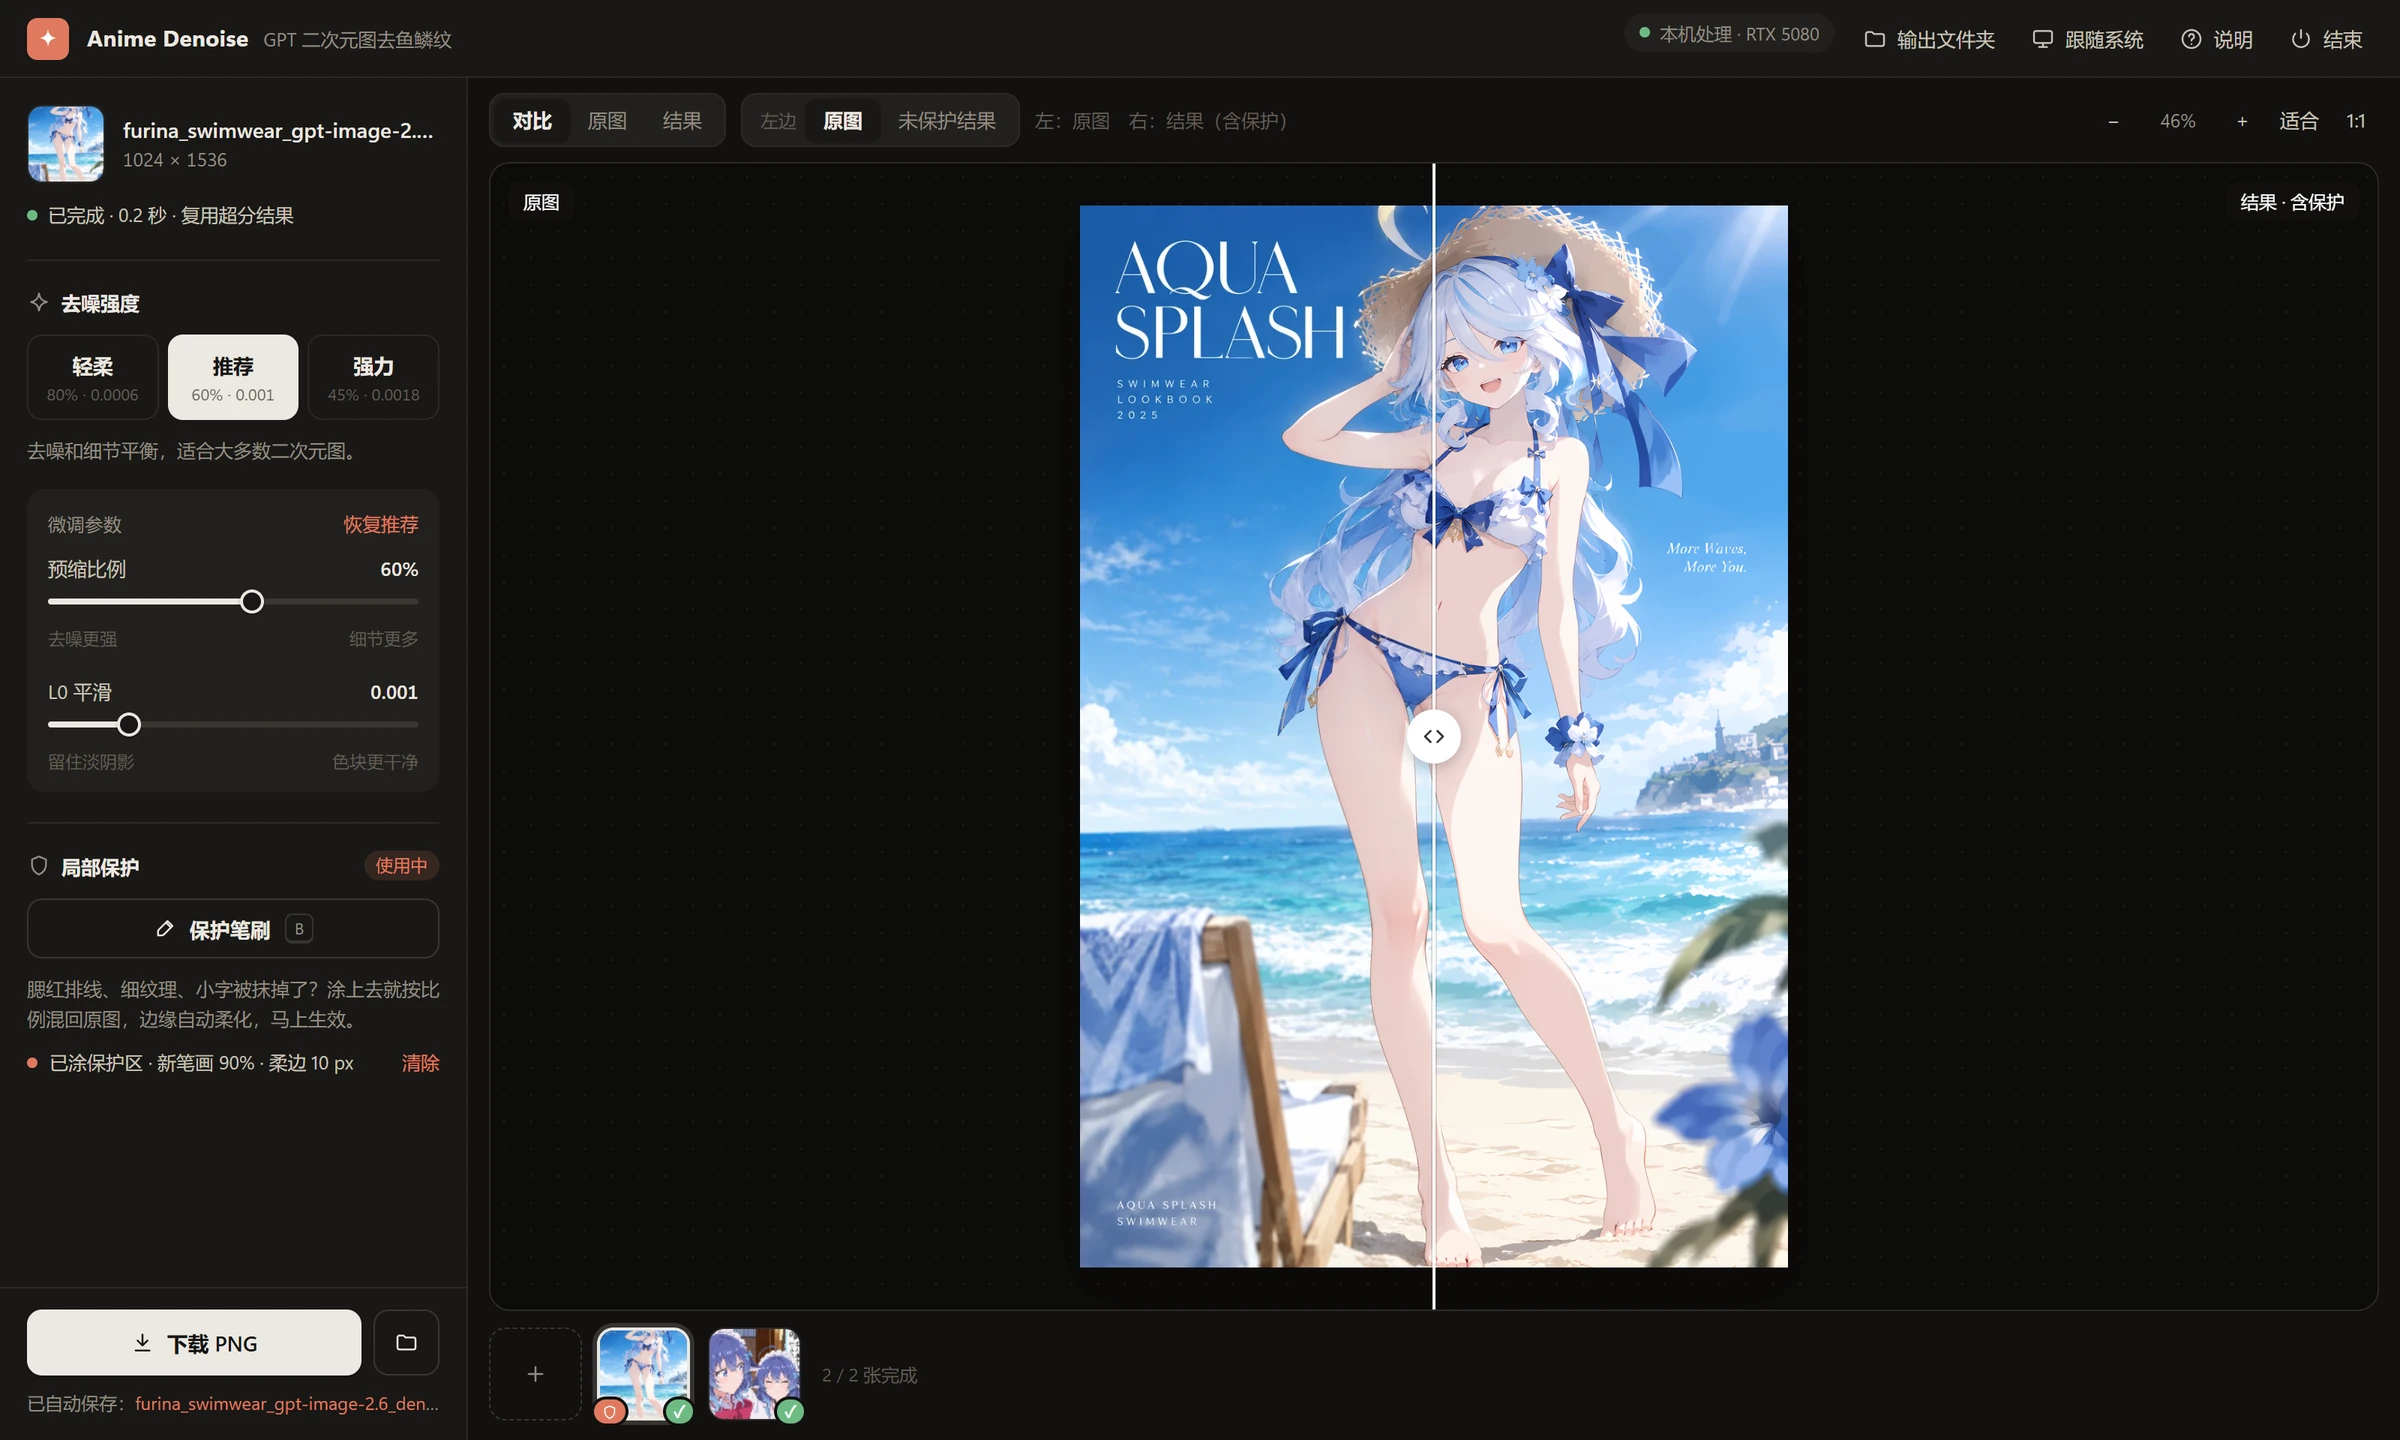
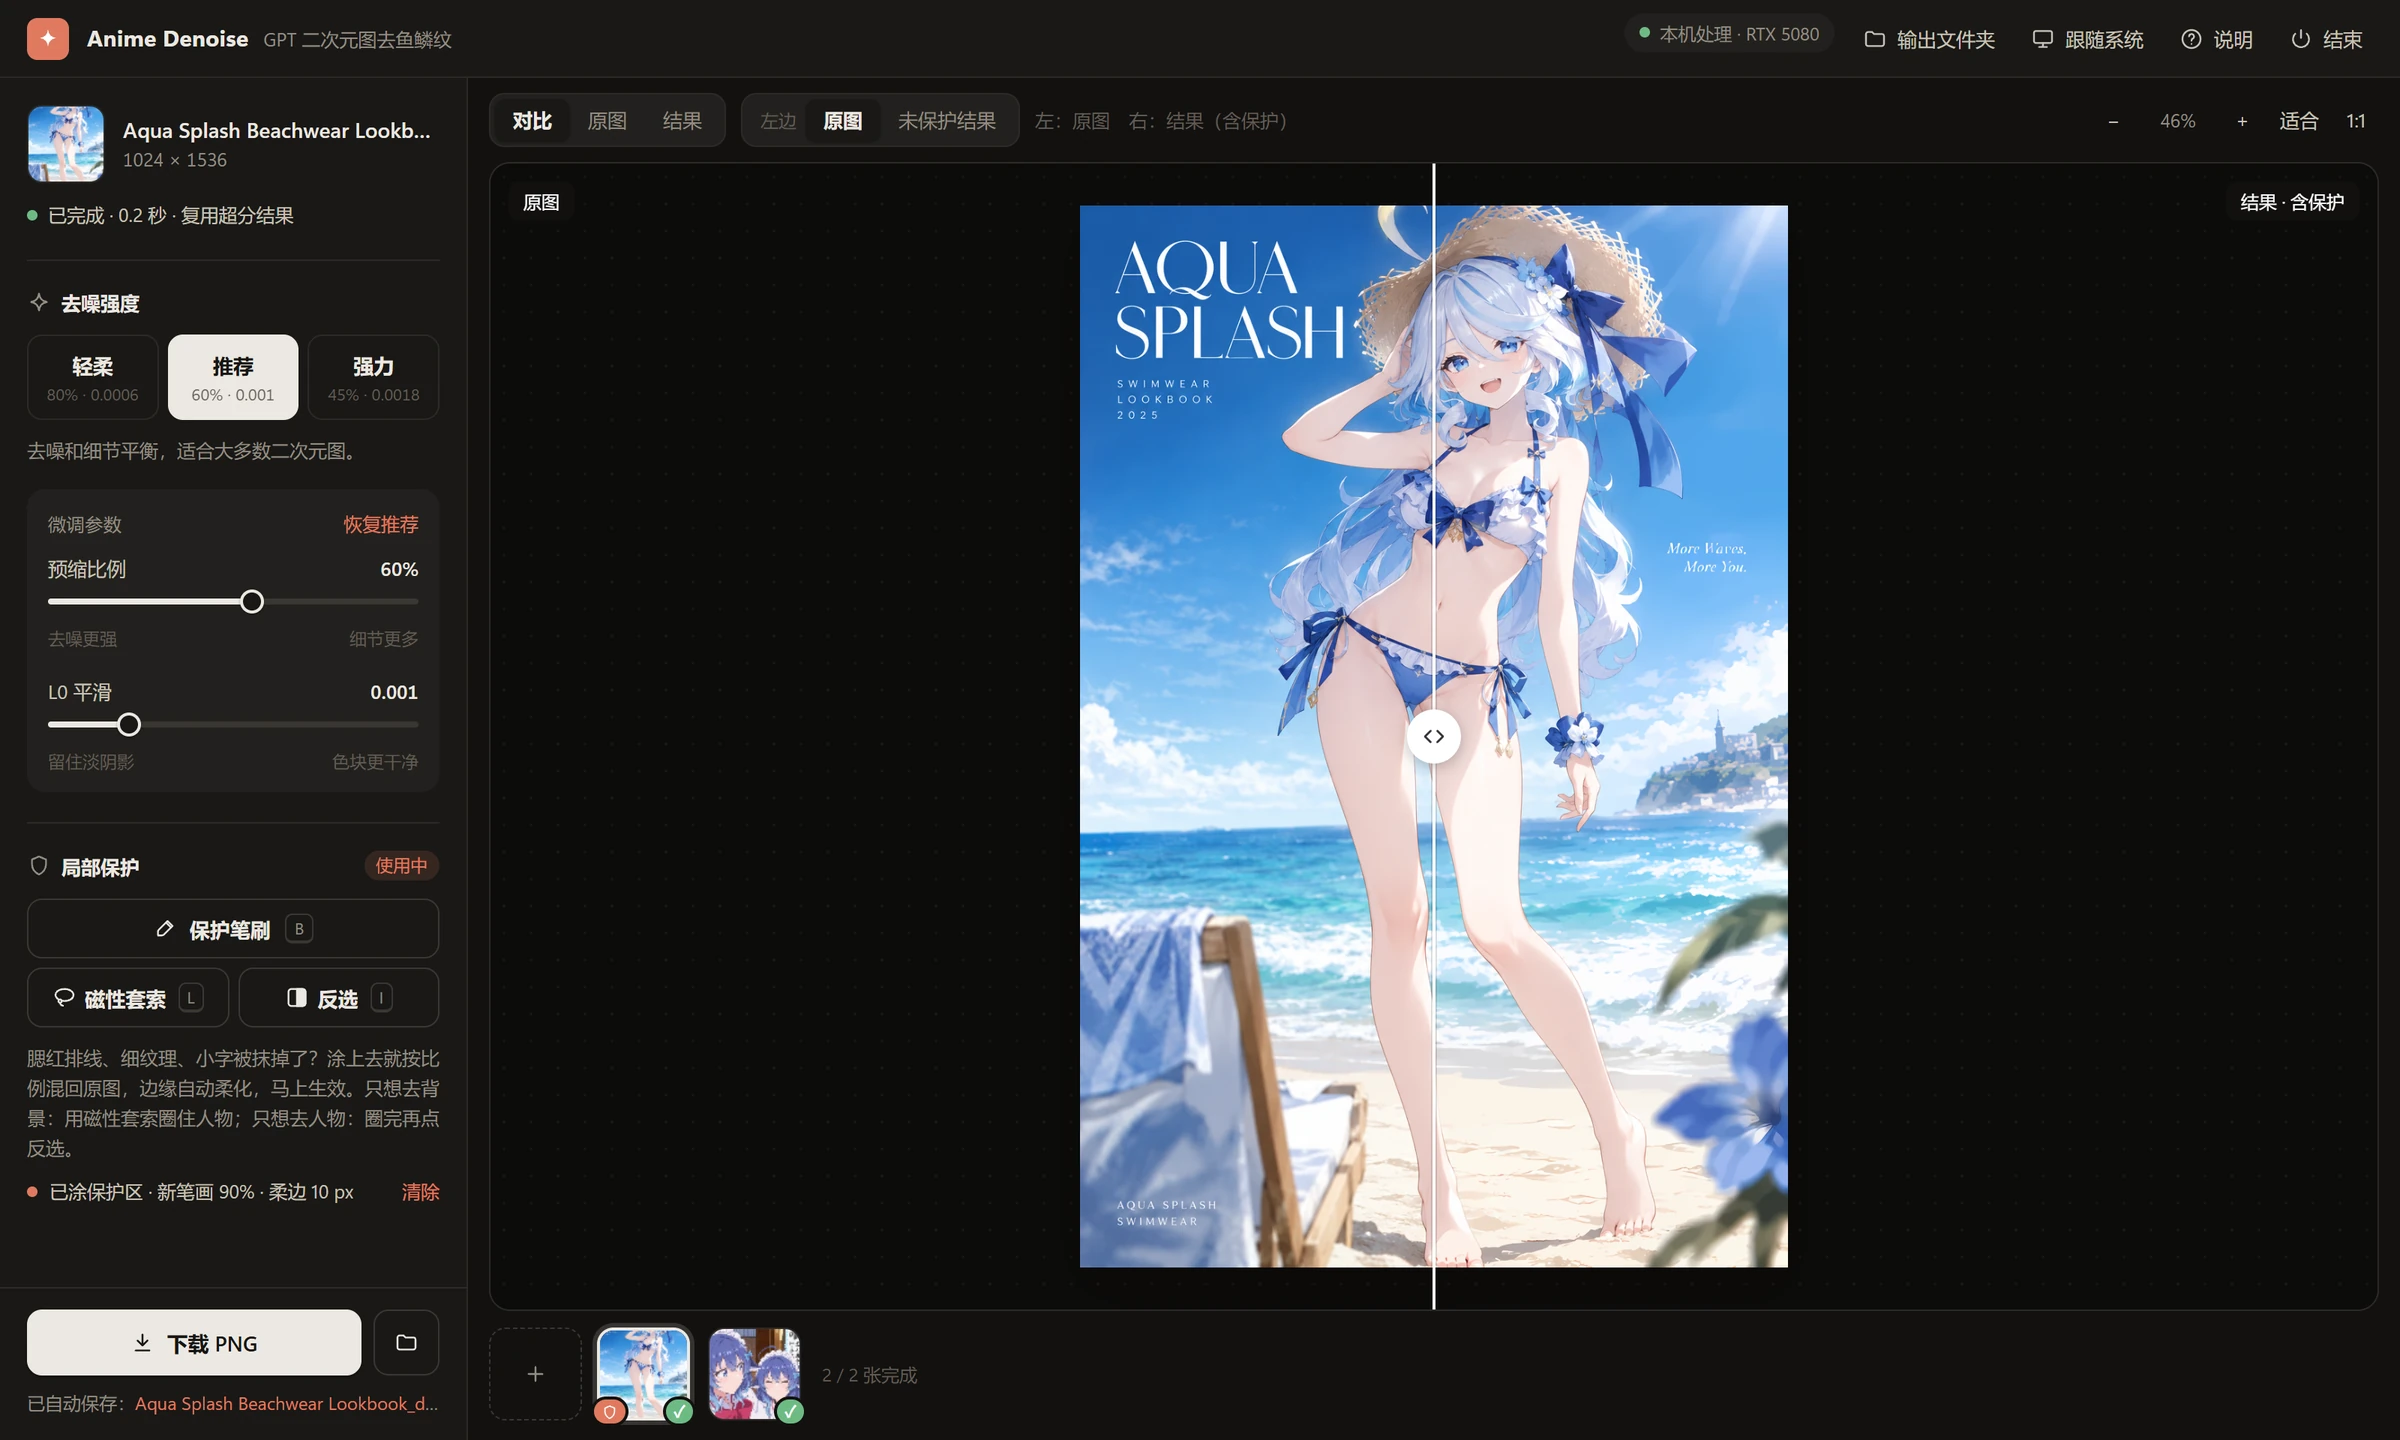
README: new GUI screenshots with the lasso, feature text for v1.1
Re-shot the overview, brush and dark screenshots on the swimsuit poster
with the current UI (lasso and invert in the side panel and top bar),
added a lasso-in-progress screenshot and a side-by-side of "lasso the
character" vs "inverted", and updated the feature list and lasso text.

diff --git a/README.md b/README.md
@@ -80,6 +80,7 @@ Windows 上也可以双击 `去噪工具.bat`：它依次找环境变量 `DENOIS
 - **拖进来就去噪**：拖入、点击选择或 Ctrl+V 粘贴，可以一次放多张，底部缩略图排队依次处理；RTX 5080 上一张约 1 秒。
 - **三档强度 + 微调**：轻柔（80% · 0.0006）/ 推荐（60% · 0.001）/ 强力（45% · 0.0018），下面的「微调参数」可以单独调预缩比例和 L0；松手就重跑，只改 L0 时复用超分结果，约 0.3 秒。正在处理时改参数，旧任务会立刻中止，直接按新参数重来。每张图记住自己的参数。
 - **对比查看**：对比 / 原图 / 结果三种视图；拖分割线比较，或按 `X` 在全屏原图和全屏结果之间直接切换（没有分割线）；滚轮缩放（200% 以上按原像素显示），拖动平移，按住 Z 临时看原图。
+- **局部保护**：用保护笔刷涂，或用磁性套索圈，涂过、圈过的地方按比例混回原图，不用重跑模型；配合反选，可以只给背景或只给人物去噪。详见下面两节。
 - **保存**：右边显示的就是下载的 PNG，尺寸和原图一样，透明背景会保留；同时自动存一份到 `outputs/`，左下角点文件名就能在文件夹里定位。
 
 ### 局部保护笔刷
@@ -90,19 +91,27 @@ Windows 上也可以双击 `去噪工具.bat`：它依次找环境变量 `DENOIS
 
 ![局部保护前后对比](examples/gui_mask_crops.webp)
 
-- 画面上方浮出工具条：画笔 / 橡皮、大小（默认 14 px，按住空格转滚轮可以细调）、恢复原图比例（默认 90%）、柔边（默认 10 px，只向外渐变，0 是硬边）、撤销 / 重做、显示范围、清除。
+- 画面上方浮出工具条：画笔 / 橡皮 / 套索三种工具随时切换，大小（默认 14 px，按住空格转滚轮可以细调）、恢复原图比例（默认 90%）、柔边（默认 10 px，只向外渐变，0 是硬边）、撤销 / 重做、显示范围、反选、清除。
 - 每一笔有自己的强度：「恢复原图」设的是接下来这几笔的比例（100% 就是完全不动），同一张图里可以有 90% 的地方和 60% 的地方；淡红色越深表示混回原图越多，柔边的渐变也直接显示出来。在涂过的地方再涂，会改成新的比例。
 - 淡红范围默认「涂完自动隐藏」：画的时候只显示这一笔，松手后约 0.7 秒淡出；工具条上的眼睛按钮可改成一直显示，任何时候按住 M 都能看到全部已涂的地方。左边可以切到「未保护结果」，直接对比加保护前后。
 - 去噪前也可以先涂；重新去噪后保护区会自动套用。
 
 ### 磁性套索与反选：只去背景或只去人物
 
-想只给背景去噪、人物保持原样（或反过来），不用一笔一笔涂：
+想只给背景去噪、人物保持原样（或反过来），不用一笔一笔涂，用磁性套索圈一圈就行。下图是沿着人物轮廓圈到一半的样子：
 
-- **磁性套索**（按 `L`，或点左侧「磁性套索」/ 工具条上的「套索」）：和保护笔刷一样，圈住的地方保持原图，只是用圈选代替涂抹。在人物边缘单击一下作为起点，然后沿着轮廓移动鼠标，不用按住，选框会自动吸附到附近最明显的边缘上，并且隔一段自动加一个锚点。拐角或边缘不明显的地方单击一下，手动加锚点。回到起点单击、双击或按回车闭合，圈住的地方按当前「恢复原图」比例填成保护区，柔边照常生效。
-- **减选**：按住 Alt 闭合，或者用右键闭合，就会把圈住的地方从保护区里减掉。`Backspace` 删除上一个锚点。还没闭合时再按 `L`、点「完成」或换成画笔 / 橡皮，会自动沿边缘闭合并填好，和笔刷画完就生效一样；按 `Esc` 则放弃这次选框。
-- **反选**（按 `I`，或左侧 / 工具条上的「反选」按钮）：保护区和去噪区互换，强度保持不变。圈住人物就是只去背景；再反选一次，就变成只去人物、背景保持原图。可以撤销。
-- 吸附优先用去噪后的结果找边缘（鱼鳞纹已经去掉，轮廓更干净）；还没去噪完时用原图找。透明背景图片的透明边缘也会被当作轮廓。
+![GUI 磁性套索](examples/gui_lasso.webp)
+
+- **磁性套索**（按 `L`，或点左侧「磁性套索」/ 工具条上的「套索」）：和保护笔刷一样，圈住的地方保持原图，只是用圈选代替涂抹。在人物边缘单击一下当起点，然后沿着轮廓移动鼠标，不用按住，选框会自动吸附到附近最明显的边缘上，并且隔一段自动加一个锚点。拐角或边缘不明显的地方单击一下，手动加锚点；`Backspace` 删除上一个锚点。
+- **闭合**：回到起点单击、双击或按回车。还没闭合时再按 `L`、点「完成」或换成画笔 / 橡皮，也会自动沿边缘闭合并填好，和笔刷画完就生效一样；按 `Esc` 则放弃这次选框。圈住的地方按当前「恢复原图」比例填成保护区，柔边照常生效。
+- **减选**：按住 Alt 闭合，或者用右键闭合，就会把圈住的地方从保护区里减掉。
+- **反选**（按 `I`，或左侧 / 工具条上的「反选」按钮）：保护区和去噪区互换，强度保持不变，可以撤销。
+
+![套索与反选的结果](examples/gui_lasso_result.webp)
+
+左边是圈住人物以后：淡红色是保护区，人物保持原图，只有背景去噪。右边是再按 `I` 反选：只给人物去噪，背景保持原图。
+
+吸附优先用去噪后的结果找边缘（鱼鳞纹已经去掉，轮廓更干净）；还没去噪完时用原图找。透明背景图片的透明边缘也会被当作轮廓。
 
 ### 外观与快捷键
 
